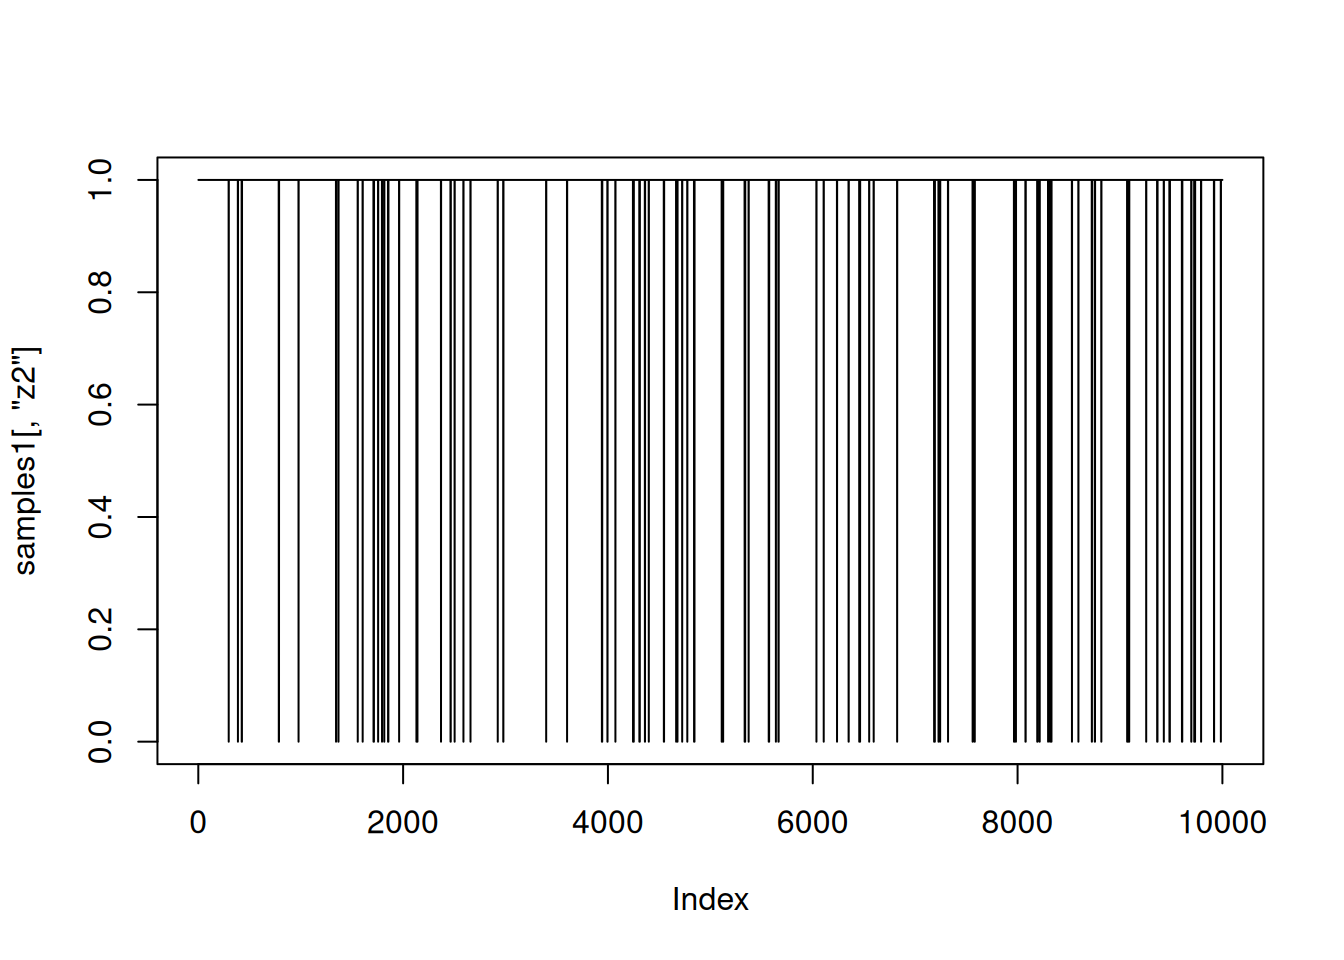
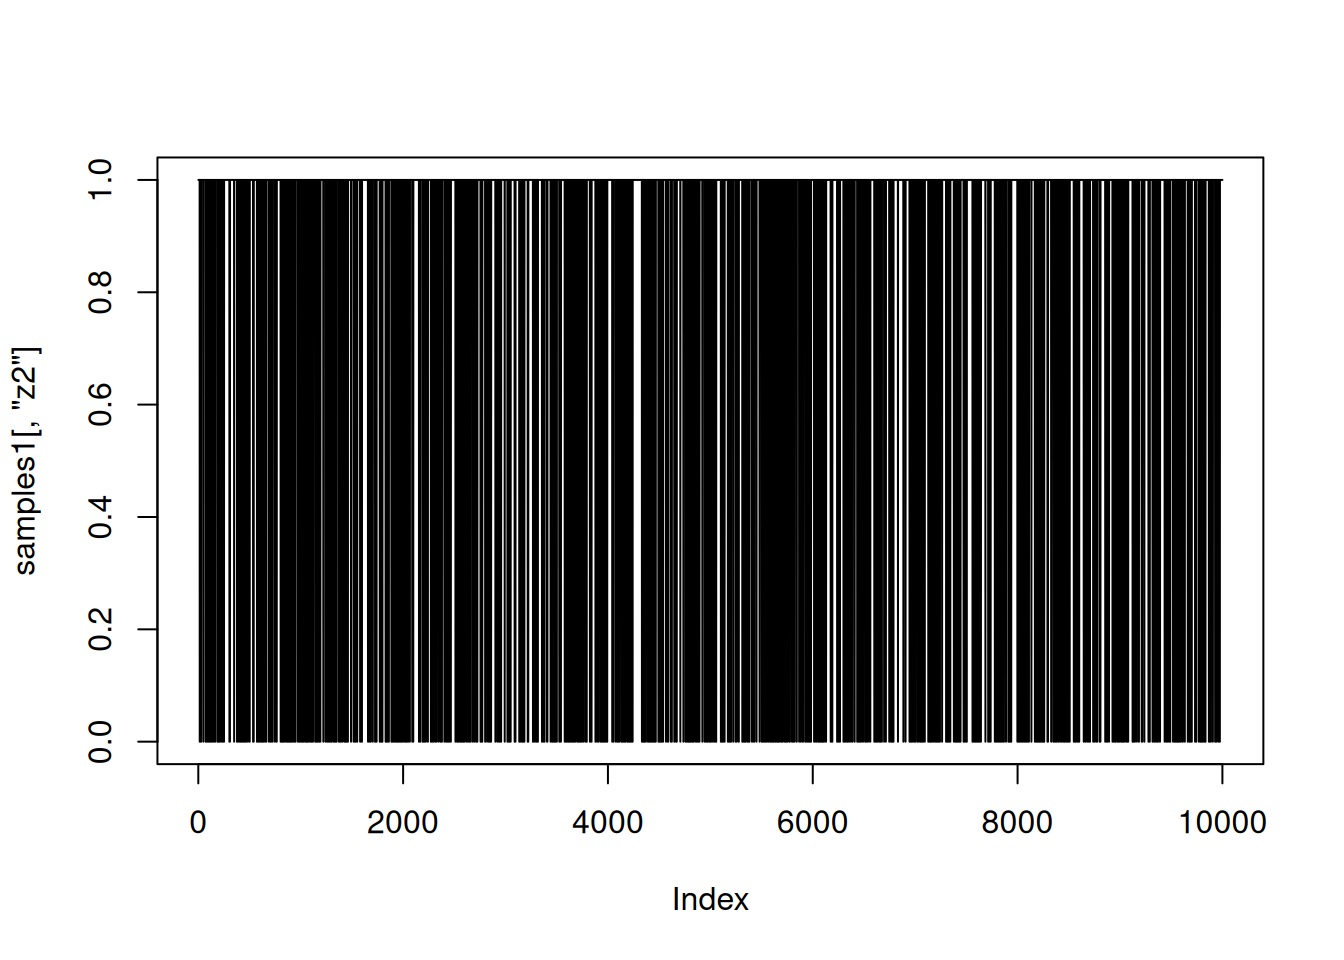
Built site for gh-pages

diff --git a/archived-versions-of-nimble-and-the-user-manual.html b/archived-versions-of-nimble-and-the-user-manual.html
@@ -347,18 +347,18 @@ pre > code.sourceCode > span > a:first-child::before { text-decoration: underlin
 <section id="current-version" class="level2">
 <h2 class="anchored" data-anchor-id="current-version">Current Version</h2>
 <ul>
-<li><strong>NIMBLE 1.4.0</strong> - <a href="./download.html">Download</a> | <a href="https://r-nimble.org/html_manual/cha-welcome-nimble.html">User Manual</a></li>
+<li><strong>NIMBLE 1.4.0</strong> - <a href="./download.html">Download</a> | <a href="https://r-nimble.org/manual/cha-welcome-nimble.html">User Manual</a></li>
 </ul>
 </section>
 <section id="previous-versions" class="level2">
 <h2 class="anchored" data-anchor-id="previous-versions">Previous Versions</h2>
 <ul>
-<li><a href="https://r-nimble.org/src/nimble_1.3.0.tar.gz">NIMBLE 1.3.0 Source Package</a></li>
-<li><a href="https://r-nimble.org/src/nimble_1.2.1.tar.gz">NIMBLE 1.2.1 Source Package</a></li>
-<li><a href="https://r-nimble.org/src/nimble_1.2.0.tar.gz">NIMBLE 1.2.0 Source Package</a></li>
-<li><a href="https://r-nimble.org/src/nimble_1.1.0.tar.gz">NIMBLE 1.1.0 Source Package</a></li>
-<li><a href="https://r-nimble.org/src/nimble_1.0.1.tar.gz">NIMBLE 1.0.1 Source Package</a></li>
-<li><a href="https://r-nimble.org/src/nimble_1.0.0.tar.gz">NIMBLE 1.0.0 Source Package</a></li>
+<li><a href="https://r-nimble.org/src/contrib/Archive/nimble_1.3.0.tar.gz">NIMBLE 1.3.0 Source Package</a></li>
+<li><a href="https://r-nimble.org/src/contrib/Archive/nimble_1.2.1.tar.gz">NIMBLE 1.2.1 Source Package</a></li>
+<li><a href="https://r-nimble.org/src/contrib/Archive/nimble_1.2.0.tar.gz">NIMBLE 1.2.0 Source Package</a></li>
+<li><a href="https://r-nimble.org/src/contrib/Archive/nimble_1.1.0.tar.gz">NIMBLE 1.1.0 Source Package</a></li>
+<li><a href="https://r-nimble.org/src/contrib/Archive/nimble_1.0.1.tar.gz">NIMBLE 1.0.1 Source Package</a></li>
+<li><a href="https://r-nimble.org/src/contrib/Archive/nimble_1.0.0.tar.gz">NIMBLE 1.0.0 Source Package</a></li>
 </ul>
 <section id="older-versions" class="level3">
 <h3 class="anchored" data-anchor-id="older-versions">Older Versions</h3>
@@ -378,7 +378,7 @@ pre > code.sourceCode > span > a:first-child::before { text-decoration: underlin
 <section id="user-manual-archives" class="level2">
 <h2 class="anchored" data-anchor-id="user-manual-archives">User Manual Archives</h2>
 <ul>
-<li>Current User Manual: <a href="https://r-nimble.org/html_manual/cha-welcome-nimble.html">HTML</a> | <a href="https://r-nimble.org/manuals/NimbleUserManual.pdf">PDF</a></li>
+<li>Current User Manual: <a href="https://r-nimble.org/manual/cha-welcome-nimble.html">HTML</a> | <a href="https://r-nimble.org/manuals/NimbleUserManual.pdf">PDF</a></li>
 <li>Previous versions of the manual are included with each package release on <a href="https://github.com/nimble-dev/nimble/releases">GitHub</a> and <a href="http://doi.org/10.5281/zenodo.1211191">Zenodo</a>.</li>
 </ul>
 </section>

diff --git a/download.html b/download.html
@@ -348,7 +348,7 @@ pre > code.sourceCode > span > a:first-child::before { text-decoration: underlin
 <p>Before installing NIMBLE, you need a compiler and related tools such as <em>make</em> that R can use. You’ll need these anyway to use NIMBLE.</p>
 <p>On Windows you can get these by <a href="http://cran.r-project.org/bin/windows/Rtools">installing Rtools.exe</a>. <strong>Important</strong>: with R version 4.0 or newer, for which you need Rtools40, be sure to follow the instructions in the section “Putting Rtools on the PATH” to set the PATH after the installation is complete. For older versions of R, for which you would use Rtools35.exe, be sure to check the box that will modify your PATH during the installation process.</p>
 <p>On Mac OS X you can get these by installing the XCode command line tools. (The full XCode development environment is fine but not required.)</p>
-<p>More details and troubleshooting tips are provided in <a href="https://r-nimble.org/html_manual/cha-installing-nimble.html">Section 4 of the User Manual</a>.</p>
+<p>More details and troubleshooting tips are provided in <a href="https://r-nimble.org/manual/cha-installing-nimble.html">Section 4 of the User Manual</a>.</p>
 <p>If you install a new version of R, you will need to reinstall NIMBLE.</p>
 </section>
 <section id="current-version-1.4.0" class="level2">
@@ -386,7 +386,7 @@ pre > code.sourceCode > span > a:first-child::before { text-decoration: underlin
 </section>
 <section id="beta-testing-of-automatic-differentiation-features" class="level2">
 <h2 class="anchored" data-anchor-id="beta-testing-of-automatic-differentiation-features">Beta testing of automatic differentiation features</h2>
-<p>Automatic differentiation, including support for Hamiltonian Monte Carlo and Laplace (and AGHQ) approximation is part of NIMBLE as of the version 1.0.0 release. Instructions for using it are in our <a href="https://r-nimble.org/html_manual/cha-AD.html">User Manual</a>.</p>
+<p>Automatic differentiation, including support for Hamiltonian Monte Carlo and Laplace (and AGHQ) approximation is part of NIMBLE as of the version 1.0.0 release. Instructions for using it are in our <a href="https://r-nimble.org/manual/cha-AD.html">User Manual</a>.</p>
 
 
 </section>

diff --git a/blog/writing-reversible-jump-mcmc-in-nimble.html b/blog/writing-reversible-jump-mcmc-in-nimble.html
@@ -771,11 +771,11 @@ conjugate sampler (3)
 <div class="cell">
 <div class="sourceCode cell-code" id="cb48"><pre class="sourceCode r code-with-copy"><code class="sourceCode r"><span id="cb48-1"><a href="#cb48-1" aria-hidden="true" tabindex="-1"></a><span class="fu">mean</span>(samples1[,<span class="st">'beta2'</span>]<span class="sc">==</span><span class="dv">0</span>)</span></code><button title="Copy to Clipboard" class="code-copy-button"><i class="bi"></i></button></pre></div>
 <div class="cell-output cell-output-stdout">
-<pre><code>[1] 0.0152</code></pre>
+<pre><code>[1] 0.1286</code></pre>
 </div>
 <div class="sourceCode cell-code" id="cb50"><pre class="sourceCode r code-with-copy"><code class="sourceCode r"><span id="cb50-1"><a href="#cb50-1" aria-hidden="true" tabindex="-1"></a><span class="fu">mean</span>(samples2[,<span class="st">'beta2'</span>]<span class="sc">==</span><span class="dv">0</span>)</span></code><button title="Copy to Clipboard" class="code-copy-button"><i class="bi"></i></button></pre></div>
 <div class="cell-output cell-output-stdout">
-<pre><code>[1] 0.0192</code></pre>
+<pre><code>[1] 0.1274</code></pre>
 </div>
 <div class="sourceCode cell-code" id="cb52"><pre class="sourceCode r code-with-copy"><code class="sourceCode r"><span id="cb52-1"><a href="#cb52-1" aria-hidden="true" tabindex="-1"></a><span class="fu">qqplot</span>(samples1[ samples1[,<span class="st">'beta2'</span>] <span class="sc">!=</span> <span class="dv">0</span>,<span class="st">'beta2'</span>], samples2[samples2[,<span class="st">'beta2'</span>] <span class="sc">!=</span> <span class="dv">0</span>,<span class="st">'beta2'</span>])</span>
 <span id="cb52-2"><a href="#cb52-2" aria-hidden="true" tabindex="-1"></a><span class="fu">abline</span>(<span class="dv">0</span>,<span class="dv">1</span>)</span></code><button title="Copy to Clipboard" class="code-copy-button"><i class="bi"></i></button></pre></div>

diff --git a/release-notes.html b/release-notes.html
@@ -492,7 +492,7 @@ window.Quarto = {
 <li>Support in NIMBLE’s algorithm programming system to obtain derivatives of functions and arbitrary calculations within models.</li>
 <li>A parameter transformation system allowing algorithms to work in unconstrained parameter spaces when model parameters have constrained domains.</li>
 </ul>
-<p>These are documented via the R help system and a <a href="https://r-nimble.org/html_manual/cha-AD.html">new section at the end of our User Manual</a>. We’re excited for users to try out the new features and let us know of their experiences. In particular, given these major additions to the NIMBLE system, we anticipate the possibility of minor glitches. The best place to reach out for support is still the <a href="https://r-nimble.org/more/issues-and-groups">nimble-users list</a>.</p>
+<p>These are documented via the R help system and a <a href="https://r-nimble.org/manual/cha-AD.html">new section at the end of our User Manual</a>. We’re excited for users to try out the new features and let us know of their experiences. In particular, given these major additions to the NIMBLE system, we anticipate the possibility of minor glitches. The best place to reach out for support is still the <a href="https://r-nimble.org/more/issues-and-groups">nimble-users list</a>.</p>
 <p>In addition to the new functionality above, other enhancements and bug fixes include:</p>
 <ul>
 <li>Fixing a bug (previously reported in a nimble-users message) giving incorrect results in NIMBLE’s cross-validation function (<code>runCrossValidate</code>) for all but the ‘predictive’ loss function for NIMBLE versions 0.10.0 – 0.13.2.</li>

diff --git a/examples.html b/examples.html
@@ -691,6 +691,24 @@ Bayesian nonparametrics with jointly clustered observations
 </div>
 </div>
 </div>
+<div class="callout callout-style-default callout-note callout-titled">
+<div class="callout-header d-flex align-content-center" data-bs-toggle="collapse" data-bs-target=".callout-23-contents" aria-controls="callout-23" aria-expanded="false" aria-label="Toggle callout">
+<div class="callout-icon-container">
+<i class="callout-icon"></i>
+</div>
+<div class="callout-title-container flex-fill">
+Using the Pólya-gamma sampler
+</div>
+<div class="callout-btn-toggle d-inline-block border-0 py-1 ps-1 pe-0 float-end"><i class="callout-toggle"></i></div>
+</div>
+<div id="callout-23" class="callout-23-contents callout-collapse collapse">
+<div class="callout-body-container callout-body">
+<p><a href="examples/polya_gamma.html">Read this example on a new page.</a></p>
+<iframe src="examples/polya_gamma.html" width="100%" height="500" style="border: 1px solid #ccc;">
+</iframe>
+</div>
+</div>
+</div>
 
 
 
